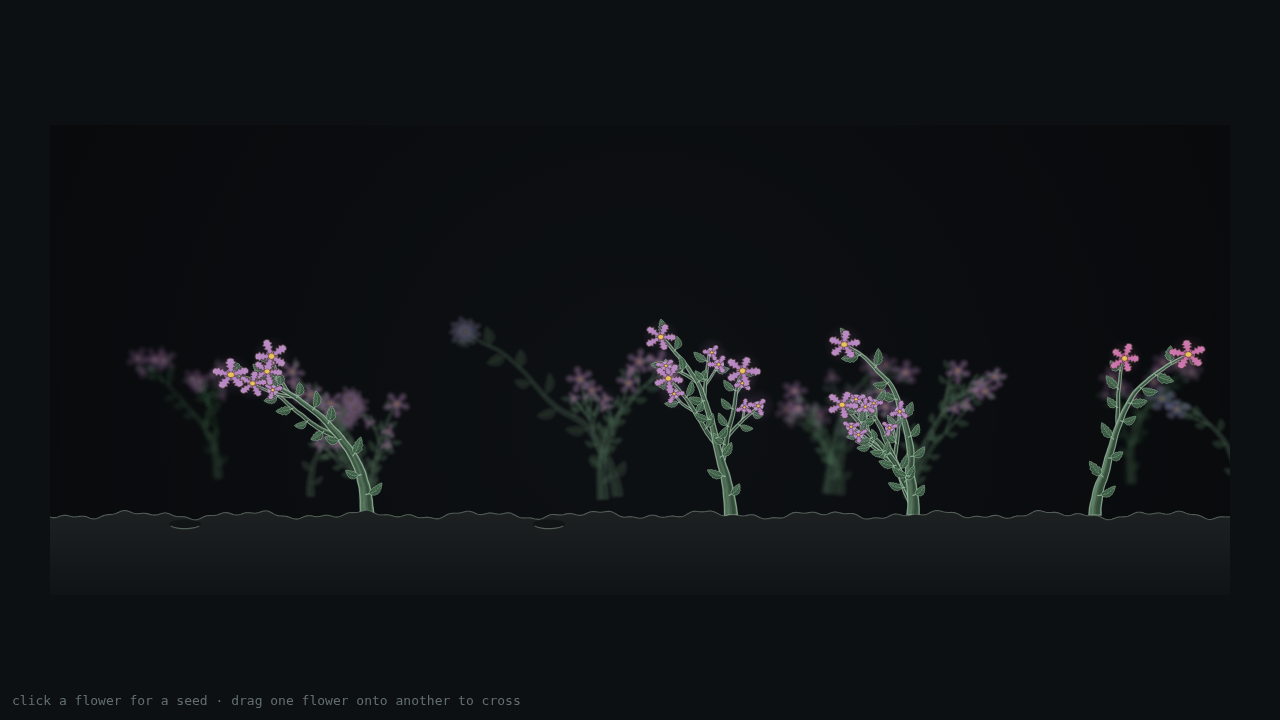
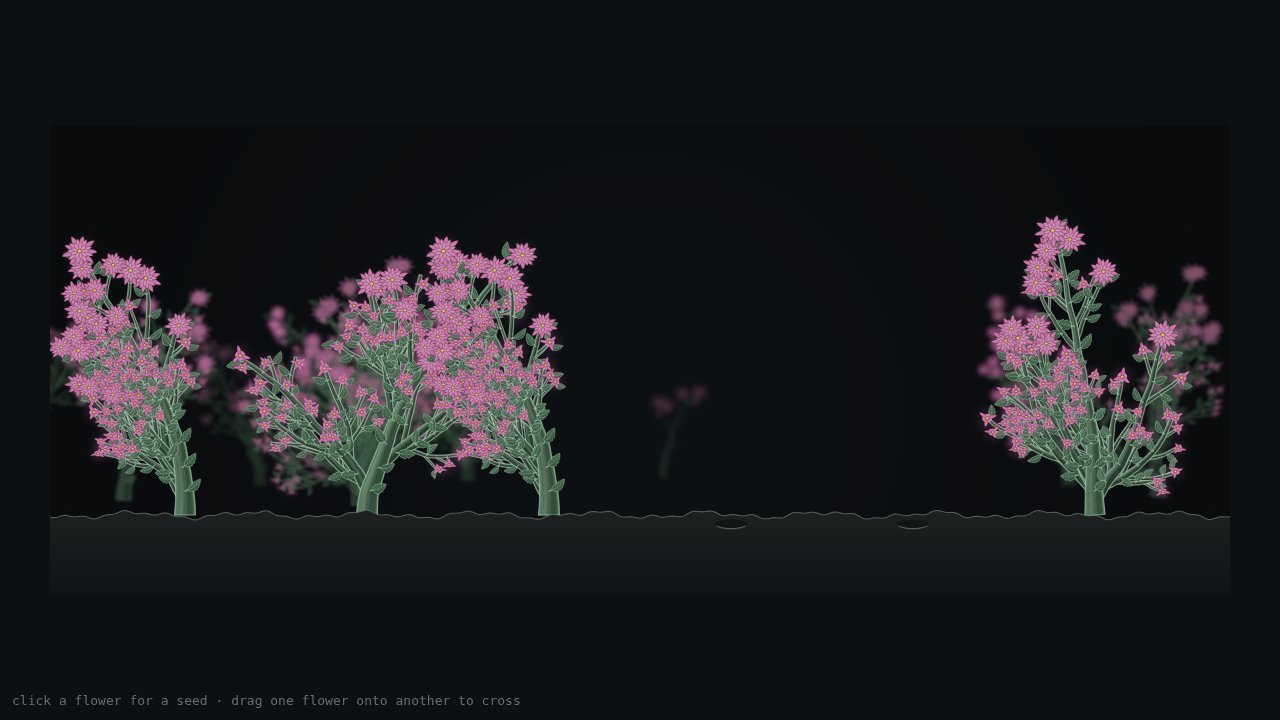
build: multi-page production build and a Pages workflow
Vite builds only the root index.html unless told otherwise, so without explicit
rollup inputs the deployed site would have been a landing page linking to two
404s — and the build would have SUCCEEDED, which is the worst way for it to be
wrong. All three pages are now entries.

`base` is set only for `command === "build"`. Setting it unconditionally moves
the dev server to /heirloom/ too, breaking every tool and bookmark pointing at
localhost:5173/garden/ — including all three verification drivers.

Root nav links are relative: under /heirloom/ an absolute /garden/ resolves to
the domain root.

Action versions were read from the live registry rather than recalled — every
one is far newer than memory would have given (actions/checkout is at v7, not
v4), and each floating major tag was confirmed to exist before pinning to it.

The workflow gates deployment on typecheck + tests. A green deploy of a broken
bundle is worse than a red build: it looks fine in the Actions log and is broken
in a browser.

Claude-Session: https://claude.ai/code/session_01VfiG5tCDpmCmCD7qx7CSzA

Changed region(s): [[0.0312, 0.3056, 0.9688, 0.7333]]

diff --git a/vite.config.ts b/vite.config.ts
@@ -1,6 +1,25 @@
+import { fileURLToPath } from "node:url";
 import { defineConfig } from "vite";
 
-export default defineConfig({
+const here = (p: string): string => fileURLToPath(new URL(p, import.meta.url));
+
+export default defineConfig(({ command }) => ({
   root: ".",
-  build: { target: "es2022" },
-});
+  // Only the production build lives under a path. Setting `base` unconditionally would move
+  // the DEV server to /heirloom/ too, breaking every tool and bookmark that points at
+  // localhost:5173/garden/ — including all three verification drivers.
+  base: command === "build" ? "/heirloom/" : "/",
+  build: {
+    target: "es2022",
+    rollupOptions: {
+      // Vite builds only the root index.html unless told otherwise. Without these two
+      // entries the deployed site would be a landing page linking to two 404s — and the
+      // build would succeed, which is the worst way for it to be wrong.
+      input: {
+        main: here("./index.html"),
+        garden: here("./garden/index.html"),
+        lookdev: here("./lookdev/index.html"),
+      },
+    },
+  },
+}));

diff --git a/index.html b/index.html
@@ -53,12 +53,13 @@
   <body>
     <main>
       <h1>Heirloom</h1>
+      <!-- Relative, not absolute. The deployed site lives under /heirloom/, where an
+           absolute /garden/ resolves to the domain root and 404s. -->
       <nav>
-        <a href="/garden/"
-          >garden
-          <span>seven genomes growing in real time — the game's look</span></a
+        <a href="./garden/"
+          >garden <span>click a flower, cross two, plant the seed</span></a
         >
-        <a href="/lookdev/"
+        <a href="./lookdev/"
           >lookdev
           <span>one seed, one gene varied per panel — a test fixture</span></a
         >
